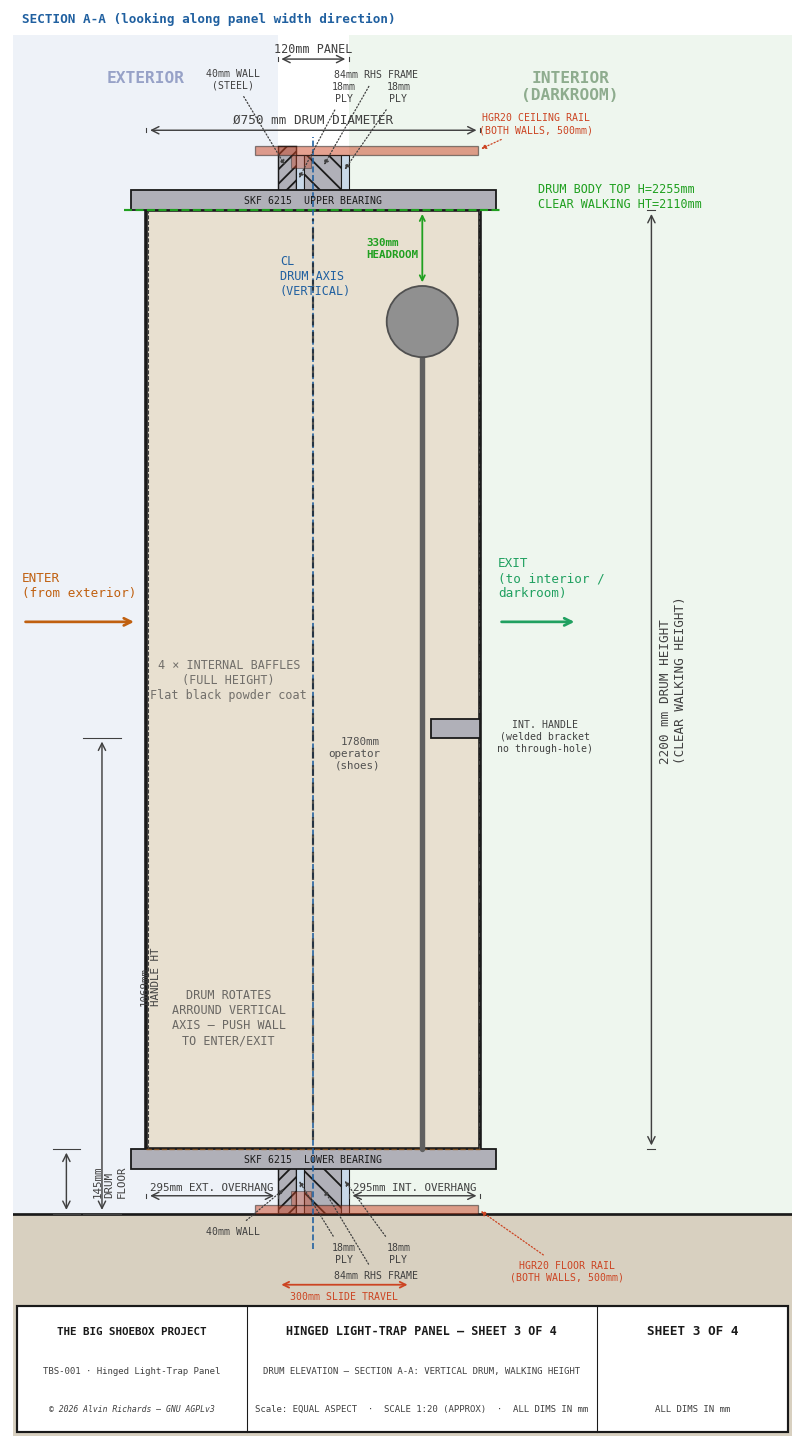
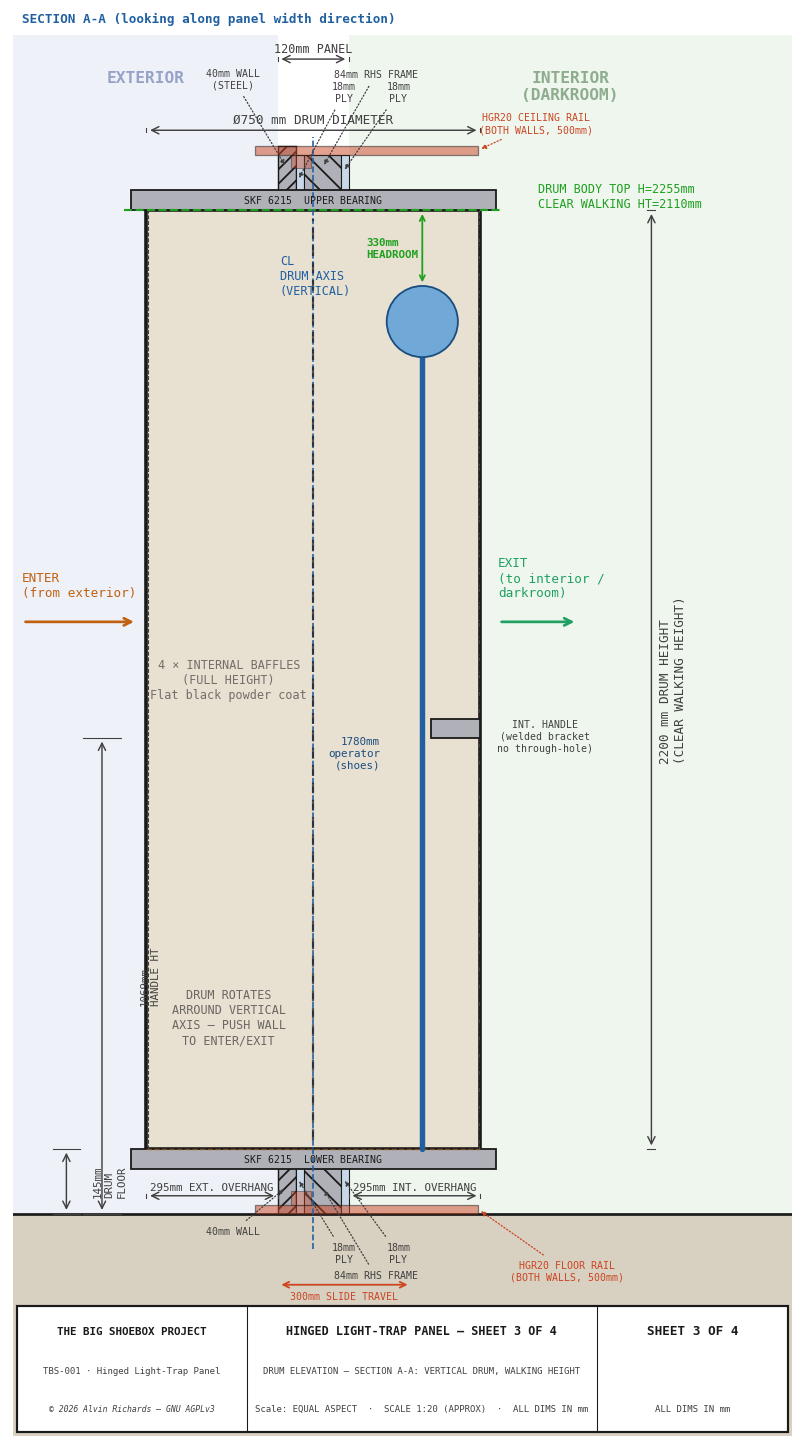
Change person silhouette to blue tones on hingepanel-sheet3
Body line, head fill, and label now use shades of blue instead
of grey for better visual distinction.

Changed region(s): [[0.4664, 0.1863, 0.5908, 0.8075], [0.4353, 0.4969, 0.4664, 0.528]]

diff --git a/generate_hingepanel_diagram.py b/generate_hingepanel_diagram.py
@@ -1064,11 +1064,11 @@ def sheet3():
     dim_v(ax, DRUM_FL_DIM_X, H_FLOOR, H_DRUM_BOT,
           f"{H_DRUM_BOT}mm\nDRUM\nFLOOR", offset=-100, fs=6)
 
-    # Person body (line) and head (circle)
+    # Person body (line) and head (circle) — blue tones
     ax.plot([PERSON_X, PERSON_X], [P_FOOT, P_HEAD],
-            color="#606060", lw=3.0, zorder=8, solid_capstyle="round")
+            color="#2060A0", lw=3.0, zorder=8, solid_capstyle="round")
     ax.add_patch(plt.Circle((PERSON_X, P_HEAD + HEAD_R), HEAD_R,
-                             fc="#909090", ec="#505050", lw=1.0, zorder=8))
+                             fc="#70A8D8", ec="#1A4D80", lw=1.0, zorder=8))
 
     # Headroom gap: person head top → drum body ceiling
     drum_body_h    = H_DRUM_TOP - H_DRUM_BOT
@@ -1084,7 +1084,7 @@ def sheet3():
     # Label alongside person
     ax.text(PERSON_X - HEAD_R - 15, P_FOOT + PERSON_H / 2,
             f"{PERSON_H}mm\noperator\n(shoes)",
-            ha="right", va="center", fontsize=6, color="#505050", **FONT, zorder=15)
+            ha="right", va="center", fontsize=6, color="#1A4D80", **FONT, zorder=15)
 
     # ── Drum body ceiling line ────────────────────────────────────────────────
     ax.plot([D_DEPTH_L - 50, D_DEPTH_R + 50], [H_DRUM_TOP, H_DRUM_TOP],
